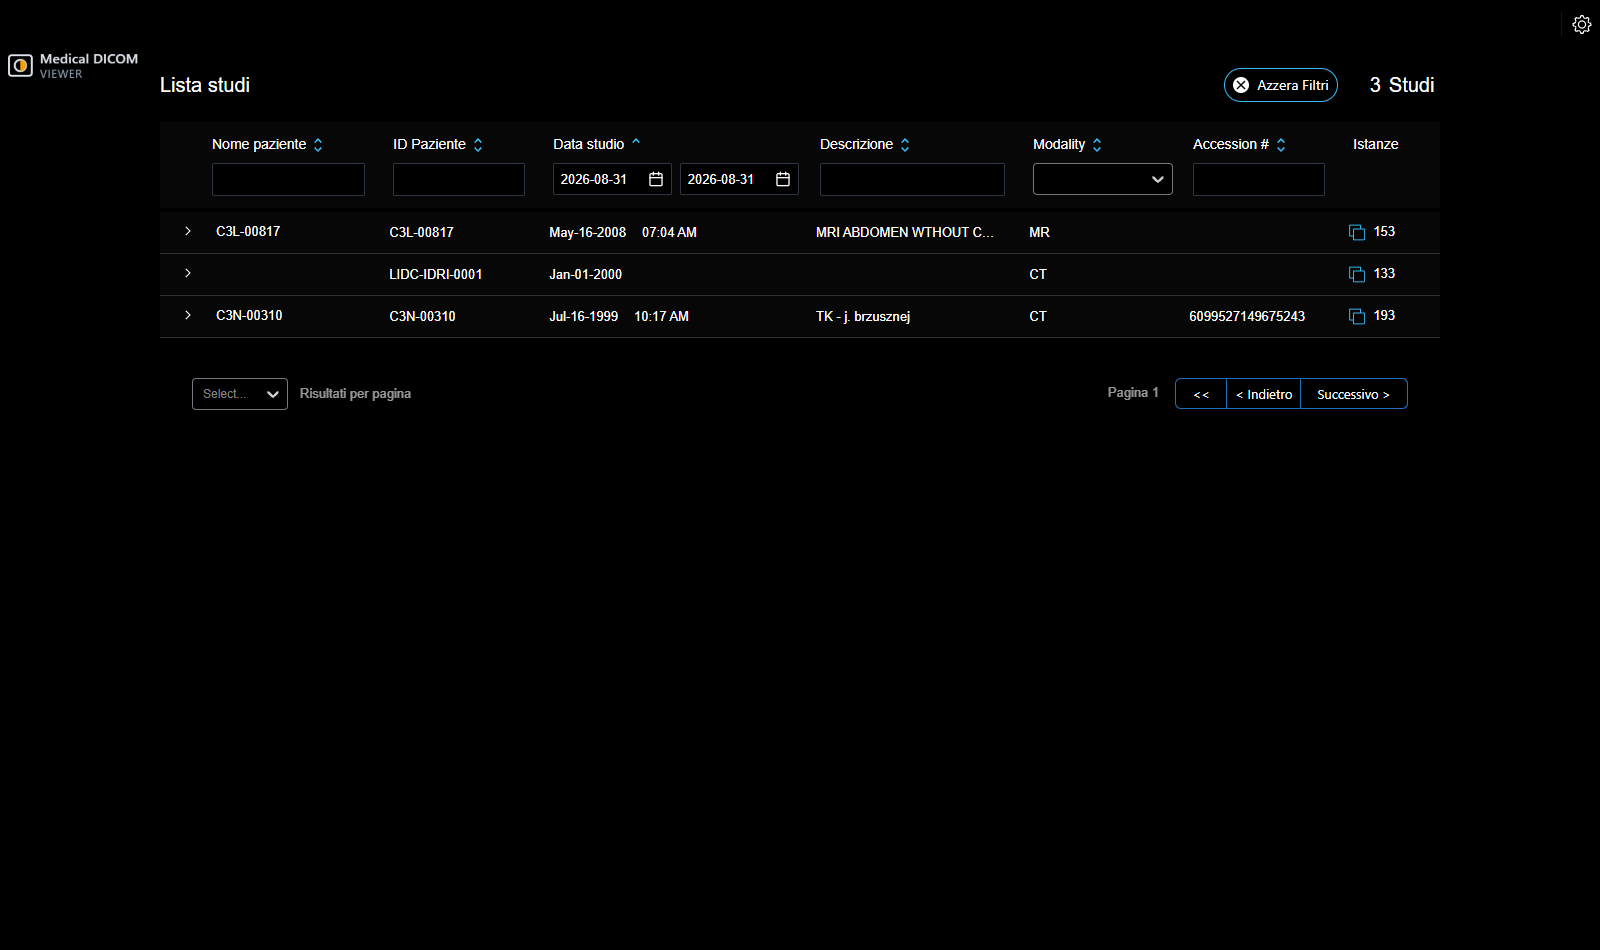
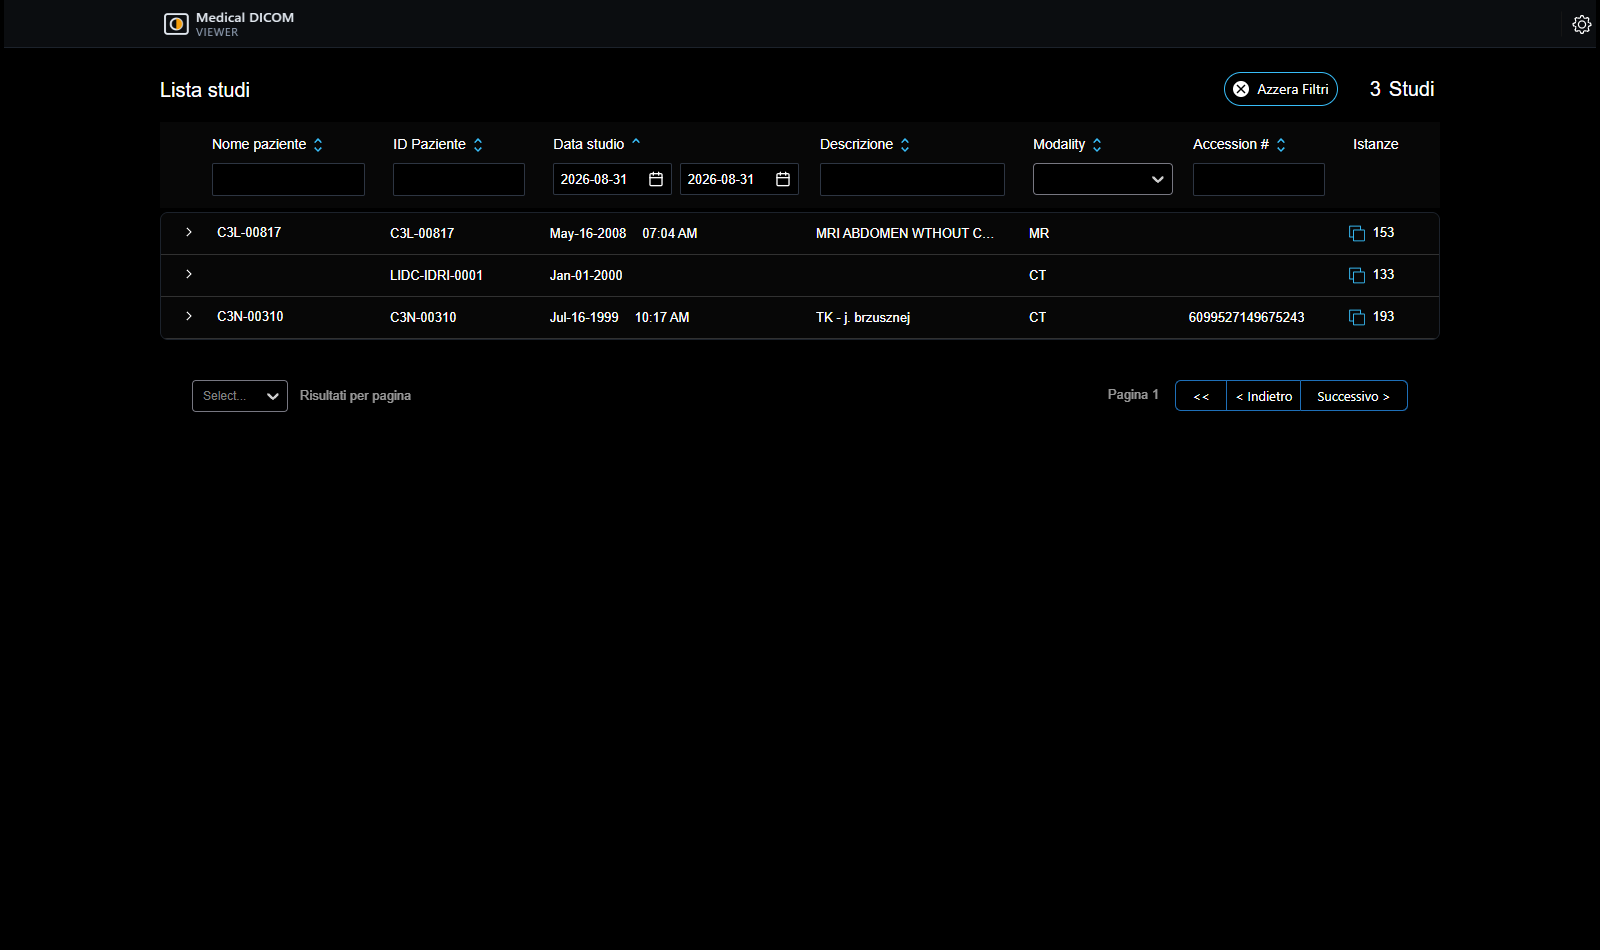
Give the first screen a structure to stand on
The mark sat nowhere. Measured: the header bar runs from the top of the
page to forty-eight pixels down, and the mark started at forty-eight — just
below it — at eight pixels from the left edge while every other thing on
the page begins at two hundred and seventy-five. It belonged neither to the
bar nor to the grid, and the bar it was supposed to be in was empty.

One rule did that: .logo-container had top: 65px, which overrides the bar's
own vertical centring. Without it the mark returns to the middle of what
holds it, which is where it was heading on its own. The bar then gets a
surface a step off the page ground and a hairline under it, so it reads as
a bar rather than a strip of nothing with a logo floating over it.

Aligned to the same column as the page, too — on the study list only, where
the body carries a class of its own. In the viewer the bar stays full
width, because there it holds the toolbar.

The filter block and the table were two bg-black boxes on a black page:
containers you cannot see, so the middle column read as text laid on a
void. They are one surface now, a step above the ground with a hairline
round it, and the filter row is a step darker than the rows it filters —
before, it read as a fourth row of data.

I also tried to make the list fill the window, and took it back out. The
height stops at a display:table box inside the scroll area, and forcing
through it made the table share the space between its header and its rows:
[…]

diff --git a/platform/ui/src/tailwind.css b/platform/ui/src/tailwind.css
@@ -899,9 +899,71 @@ body.mdv-study-panel-bottom [data-cy='studyBrowser-panel'] > .ohif-scrollbar {
   }
 }
 
-.logo-container {
-  top: 65px;
+/* Il marchio sta nella testata, non sotto.
+   Qui c'era top: 65px, che scavalcava la centratura verticale della barra e
+   spingeva il marchio fuori, a galleggiare sopra la pagina: misurato, la barra
+   finisce a 48 e il marchio cominciava a 48. Senza questa riga torna al centro
+   di cio' che lo contiene, che e' dove stava andando da solo. */
+
+/* E la barra si vede che e' una barra: un gradino sopra il fondo della pagina,
+   chiusa da un filo. Prima era nera su nero e conteneva solo un marchio senza
+   casa. */
+.mdv-testata {
+  background-color: #0b0d10;
+  border-bottom: 1px solid #1c222b;
 }
+
+/* Filtri ed elenco sono un oggetto solo.
+   Erano due blocchi neri su una pagina nera - contenitori che non si vedono - e
+   la colonna centrale si leggeva come testo appoggiato al vuoto. */
+.mdv-pannello-lista {
+  background-color: #0d1014;
+  border: 1px solid #1c222b;
+  border-radius: 8px;
+  overflow: hidden;
+}
+
+/* Il blocco dei filtri si stacca dalle righe che filtra.
+   Dentro lo stesso pannello, un gradino piu' scuro: prima aveva lo stesso fondo
+   dei dati e si leggeva come una quarta riga della tabella. */
+.mdv-pannello-lista thead {
+  background-color: #0a0c0f;
+}
+
+/* La pagina della lista studi allinea la testata al corpo.
+   La classe bg-black sul body la mette la lista studi e solo lei (vedi
+   WorkList.tsx), quindi la regola vale li' e non nel visualizzatore, dove la
+   barra e' a tutta larghezza perche' contiene la barra degli strumenti.
+
+   Senza questo il marchio resta a otto pixel dal bordo mentre il contenuto
+   comincia a duecentosettantacinque: due allineamenti diversi nella stessa
+   schermata. */
+body.bg-black .logo-container {
+  left: 50%;
+  transform: translate(-640px, -50%);
+}
+
+@media (max-width: 1340px) {
+  body.bg-black .logo-container {
+    left: 1.5rem;
+    transform: translateY(-50%);
+  }
+}
+
+/* L'elenco NON riempie la finestra, ed e' una scelta.
+
+   Ci ho provato: con tre studi il pannello finiva a meta' schermo e sotto
+   restava il nero. Ma l'altezza si ferma su una scatola con display: table -
+   il contenitore interno dell'area scorrevole - e forzandola la tabella
+   distribuiva lo spazio fra intestazione e righe, staccando i filtri dai dati
+   con trecento pixel di vuoto in mezzo. Peggio del problema.
+
+   Un pannello che sta stretto ai suoi dati, su un fondo che gli fa spazio, si
+   legge come una scheda posata. Un pannello alto quanto lo schermo con dentro
+   un buco si legge come un errore. Restano tre studi: sono tre.
+
+   Se un giorno l'elenco dovesse riempire davvero, la strada e' cambiare il
+   contenitore dell'area scorrevole, non tirare la tabella. */
 
 /* Il marchio si misura in ALTEZZA, non in larghezza.
    La barra e' alta una quarantina di pixel: vincolando la larghezza, un

diff --git a/platform/ui/src/components/StudyListFilter/StudyListFilter.tsx b/platform/ui/src/components/StudyListFilter/StudyListFilter.tsx
@@ -32,8 +32,8 @@ const StudyListFilter = ({
     <React.Fragment>
       <div>
         <div className="bg-black">
-          <div className="container relative mx-auto flex flex-col pt-5">
-            <div className="mb-5 flex flex-row justify-between">
+          <div className="container relative mx-auto flex flex-col pt-6">
+            <div className="mb-4 flex flex-row items-baseline justify-between">
               <div className="flex min-w-[1px] shrink flex-row items-center gap-6">
                 <Typography
                   variant="h6"

diff --git a/platform/ui/src/components/StudyListTable/StudyListTable.tsx b/platform/ui/src/components/StudyListTable/StudyListTable.tsx
@@ -5,8 +5,8 @@ import StudyListTableRow from './StudyListTableRow';
 
 const StudyListTable = ({ tableDataSource, querying }) => {
   return (
-    <div className="bg-black">
-      <div className="container relative m-auto">
+    <div className="mdv-lista-esterno bg-black">
+      <div className="mdv-pannello-lista container relative m-auto">
         <table className="w-full text-white">
           <tbody
             data-cy="study-list-results"

diff --git a/platform/app/src/routes/WorkList/WorkList.tsx b/platform/app/src/routes/WorkList/WorkList.tsx
@@ -691,7 +691,7 @@ Modality: ${modalities}`,
       />
       <Onboarding />
       <InvestigationalUseDialog dialogConfiguration={appConfig?.investigationalUseDialog} />
-      <div className="flex h-full flex-col overflow-y-auto">
+      <div className="mdv-corpo-lista flex h-full flex-col overflow-y-auto">
         <ScrollArea>
           <div className="flex grow flex-col">
             <StudyListFilter

diff --git a/platform/ui-next/src/components/Header/Header.tsx b/platform/ui-next/src/components/Header/Header.tsx
@@ -55,7 +55,7 @@ function Header({
       isSticky={isSticky}
       {...props}
     >
-      <div className="relative h-[48px] items-center">
+      <div className="mdv-testata relative h-[48px] items-center">
         <div className="absolute left-0 top-1/2 flex -translate-y-1/2 items-center logo-container">
           <div
             className={classNames(
